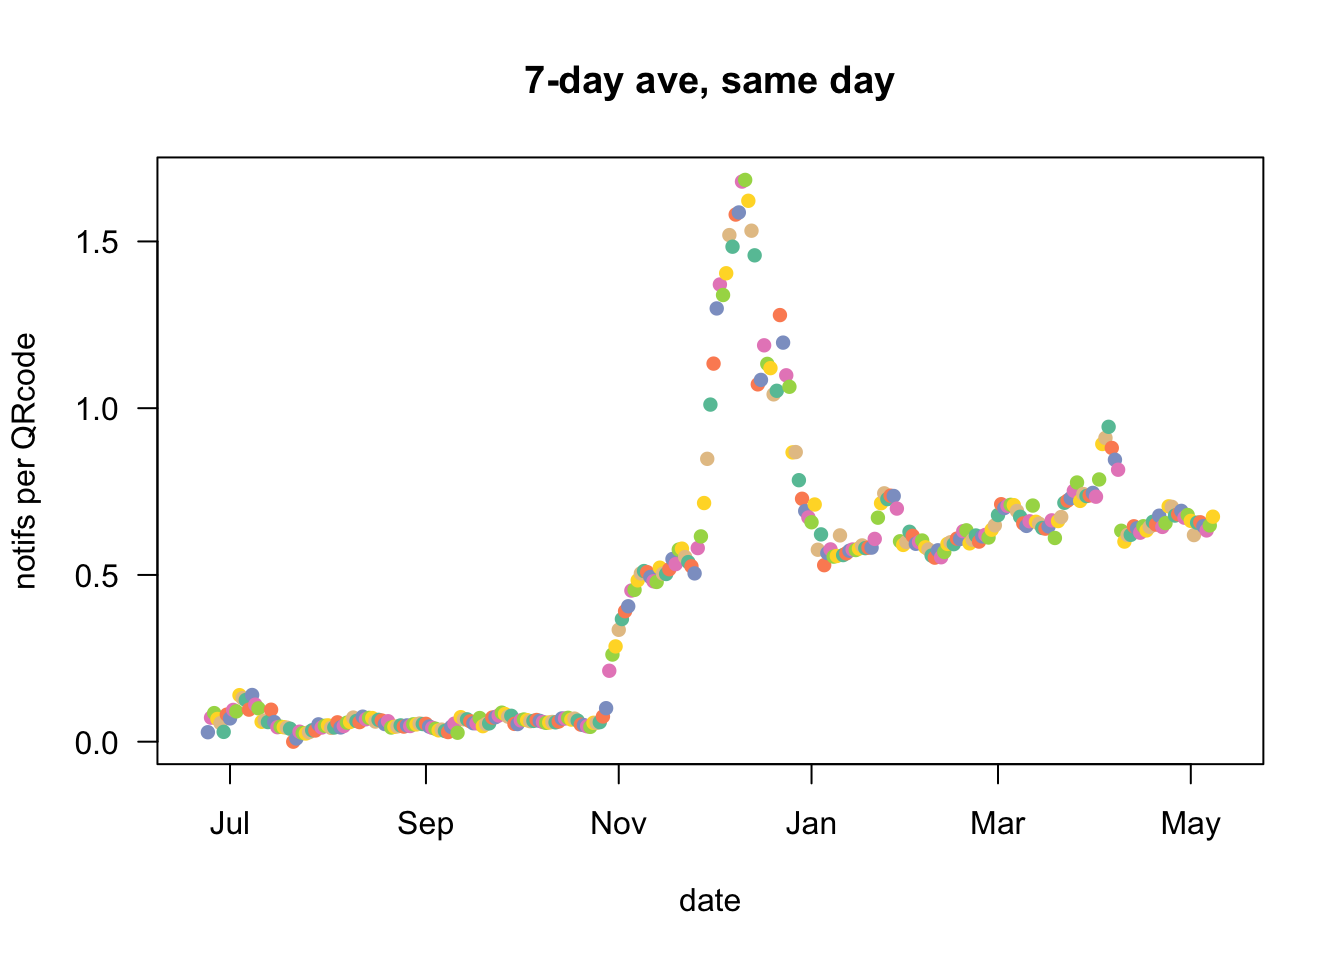
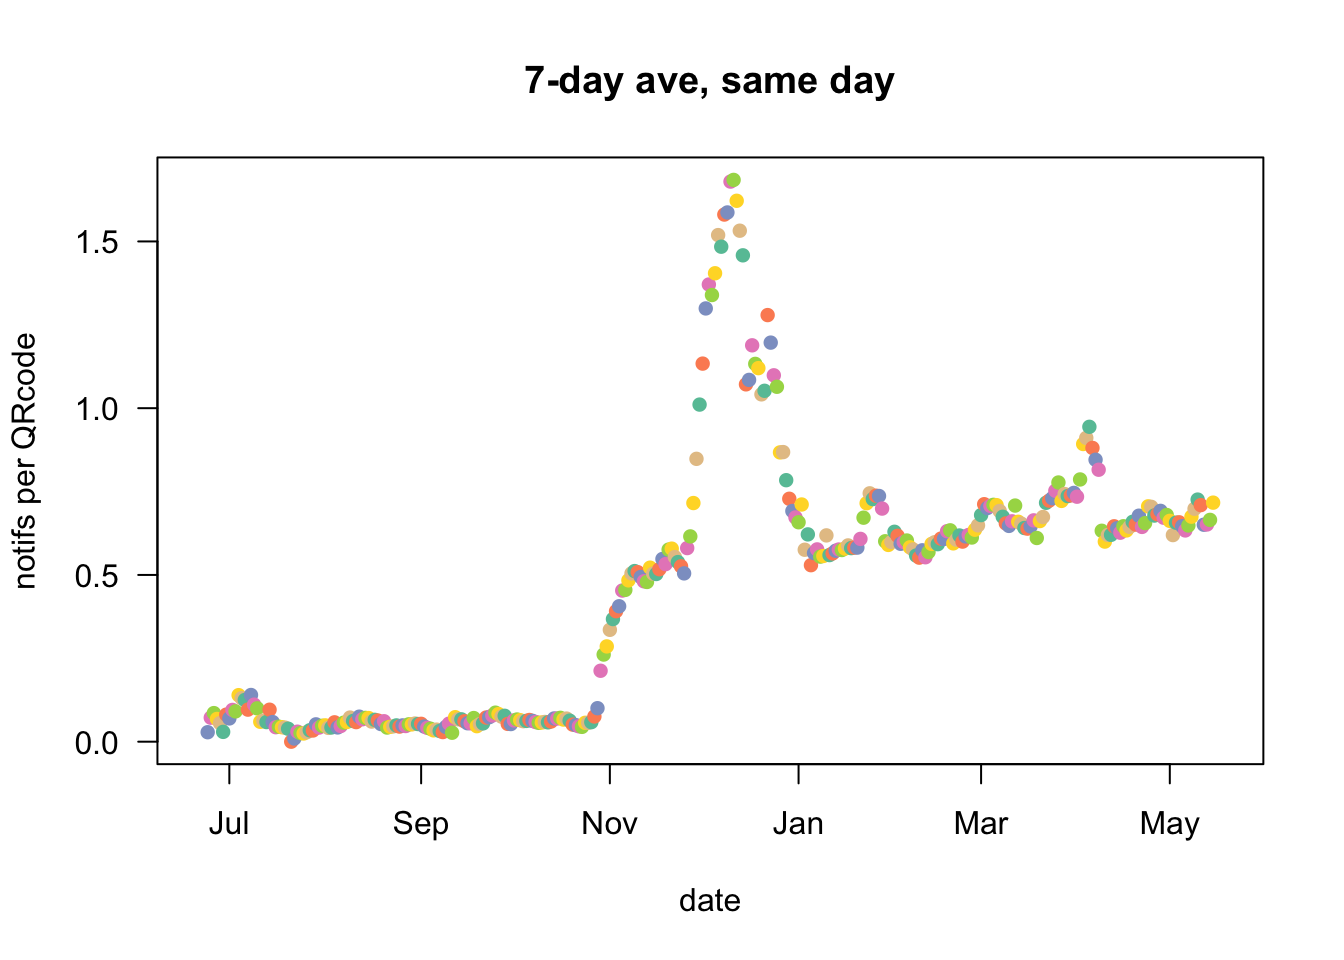
maj de la semaine

diff --git a/TAC.html b/TAC.html
@@ -377,8 +377,8 @@ legend(&quot;topleft&quot;, col = c(1, &quot;blue&quot;), pch = c(1, 2), legend 
 <pre class="r"><code># Merge the datasets
 dat.withEpi &lt;- merge(dat.all, datFR, by = &quot;date&quot;)
 names(dat.withEpi)[9] &lt;- &quot;weekDay&quot;</code></pre>
-<p>Données TAC jusqu’au Tue 11 May 2021 (inclus)<br />
-Données épidémio (JHU) jusqu’au Tue 11 May 2021 (inclus). Données épidémio (data.gouv.fr) jusqu’au Tue 11 May 2021 (inclus).</p>
+<p>Données TAC jusqu’au Tue 18 May 2021 (inclus)<br />
+Données épidémio (JHU) jusqu’au Tue 18 May 2021 (inclus). Données épidémio (data.gouv.fr) jusqu’au Tue 18 May 2021 (inclus).</p>
 <div id="quelques-dates-clés" class="section level2">
 <h2>Quelques dates clés</h2>
 <ul>
